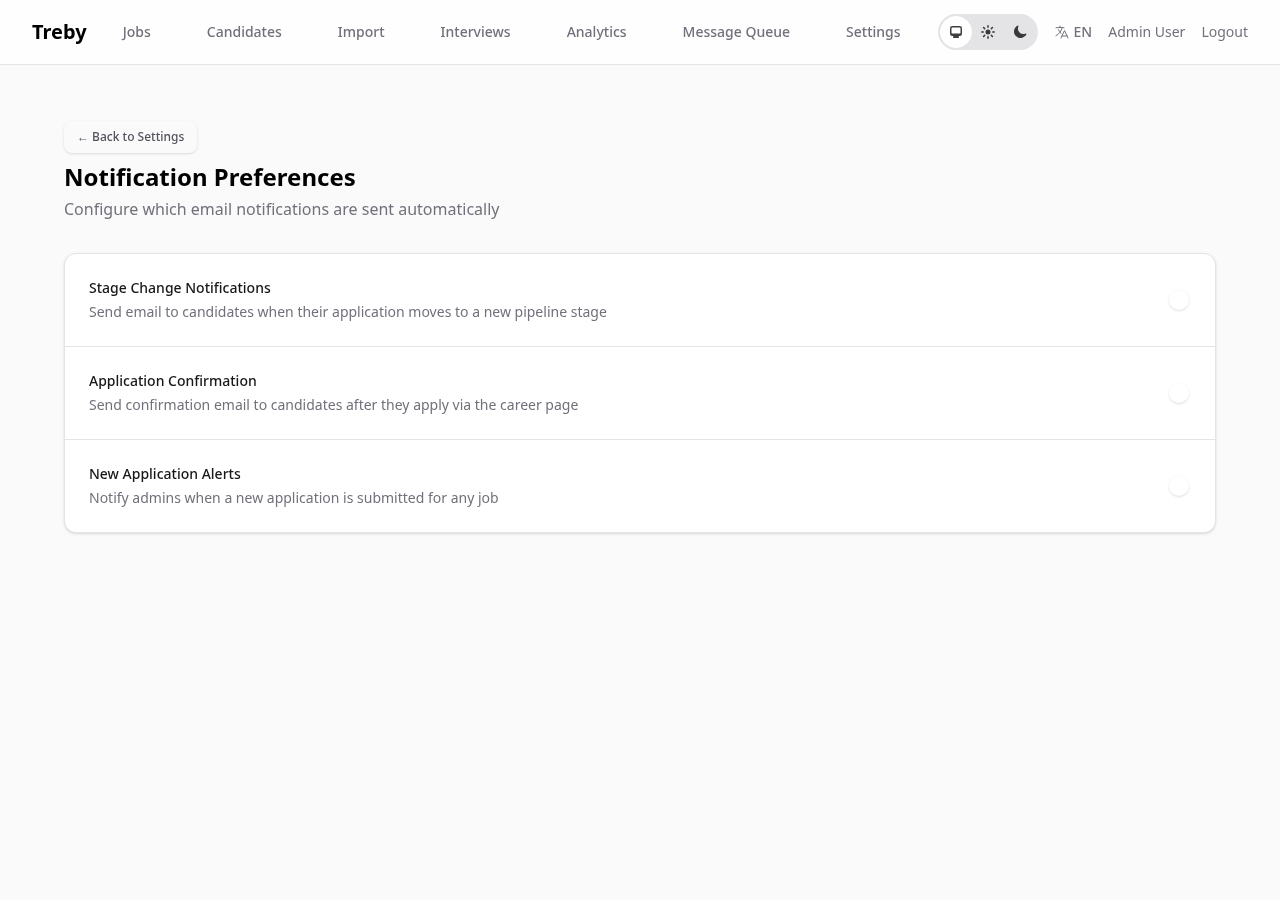
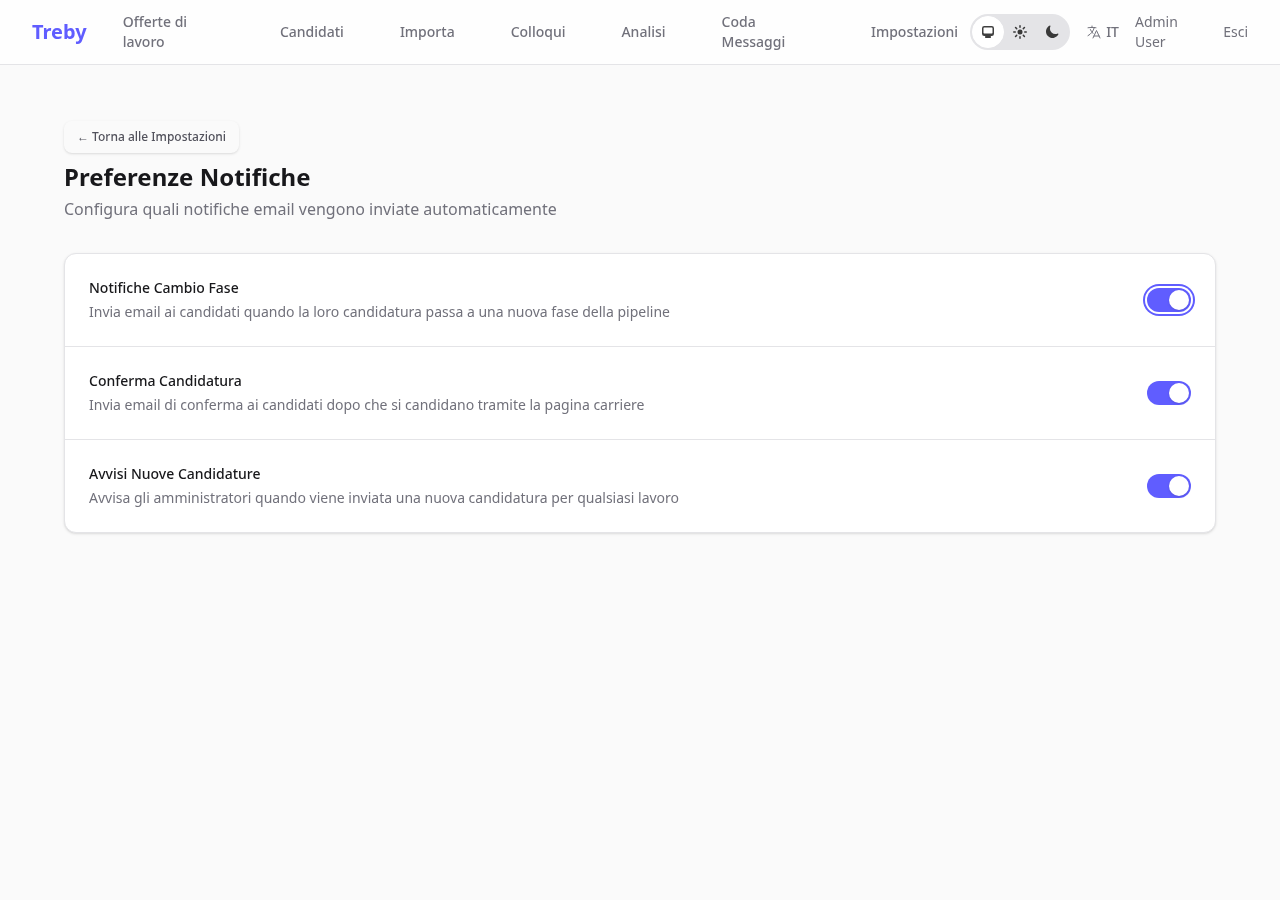
fix: notification toggles state, primary color, and mixed translations

diff --git a/assets/css/app.css b/assets/css/app.css
@@ -10,6 +10,13 @@
    The heroicons installation itself is managed by your mix.exs */
 @plugin "../vendor/heroicons";
 
+/* Brand color relied upon by `*-primary` utilities across templates.
+   Values match the previously shipped build; keep in sync if re-themed. */
+@theme {
+  --color-primary: oklch(58% 0.233 277.117);
+  --color-primary-content: oklch(96% 0.018 272.314);
+}
+
 /* Add variants based on LiveView classes */
 @custom-variant phx-click-loading (.phx-click-loading&, .phx-click-loading &);
 @custom-variant phx-submit-loading (.phx-submit-loading&, .phx-submit-loading &);

diff --git a/openspec/changes/archive/2026-09-08-notification-toggles-fix/design.md b/openspec/changes/archive/2026-09-08-notification-toggles-fix/design.md
@@ -1,0 +1,46 @@
+## Context
+
+`*-primary` color utilities (`bg-primary`, `text-primary`, `focus:ring-primary`,
+…) are used across ~15 templates, but no source file defines the `primary`
+color (no Tailwind v4 `@theme` block, no daisyUI). It exists only in stale
+compiled CSS (`--color-primary: oklch(58% .233 277.117)`), so the next asset
+rebuild silently drops all primary styling app-wide. The notification
+toggles are the first visible victim: their ON state (`bg-primary`) cannot
+render. The toggle handler itself (`toggle_preference` → tenant settings)
+is sound and covered by pattern precedent; it needs an end-to-end proof.
+
+## Goals / Non-Goals
+
+**Goals:**
+- `primary` color defined in CSS sources so all current usages build.
+- Admin toggles proven working end-to-end (visible flip + persisted).
+- Rebuilt assets verified (no styling regressions).
+
+**Non-Goals:**
+- Migrating `*-primary` usages to concrete tokens (orange/zinc) — separate
+  cleanup; this change is behavior-preserving by design.
+- Changing toggle behavior, copy, or the preference keys.
+
+## Decisions
+
+- **D1: Restore the exact stale value via `@theme`.** Add
+  `@theme { --color-primary: oklch(58% .233 277.117); ... }` (plus
+  `-content` companion already in the stale build) to `assets/css/app.css`.
+  Alternative (migrate everything to orange-600) rejected: it would recolor
+  links/rings/buttons across the app — a visual redesign disguised as a fix.
+- **D2: Prove with two layers.** A LiveView test asserts toggle flips state
+  and persists to tenant settings (fast, committed). A Playwright script
+  drives the real page in Chromium: login → notifications → click toggle →
+  assert track class flips → reload → assert persisted (user explicitly asked
+  for Playwright verification; the script lives in `/tmp`, not the repo).
+- **D3: Rebuild + screenshot diff.** Run the asset build and re-capture an
+  affected page; the only intended visual delta is a visible toggle ON
+  state.
+
+## Risks / Trade-offs
+
+- [Risk] Real browsers may already cache stale CSS → Mitigation: Playwright
+  uses a fresh profile; fingerprinted asset names change on rebuild anyway.
+- [Risk] Other pages depended on the *absence* of primary styles →
+  Mitigation: restoring the previously-shipped value returns to the
+  long-standing look; screenshot spot-check confirms.

diff --git a/openspec/changes/archive/2026-09-08-notification-toggles-fix/proposal.md b/openspec/changes/archive/2026-09-08-notification-toggles-fix/proposal.md
@@ -1,0 +1,36 @@
+## Why
+
+Settings → Notifications shows three preference toggles, but users report
+nothing looks changeable there. Investigation found the toggle ON-state
+relies on a `primary` color that no source file defines (it exists only in
+stale compiled CSS), so switch state is likely invisible or will vanish on
+the next asset rebuild. The specified behavior (visible, working toggles)
+needs restoring and end-to-end proof.
+
+## What Changes
+
+- Define the `primary` color in CSS sources (Tailwind v4 `@theme`) using the
+  value currently relied upon, or migrate toggle/state styling to existing
+  design tokens if the audit prefers them.
+- Verify each of the three admin toggles flips state visibly and persists
+  to the tenant settings (LiveView test + Playwright check on the real page).
+- Rebuild assets and confirm no other `*-primary` styling regresses.
+- No behavior or copy changes; no migrations.
+
+## Capabilities
+
+### New Capabilities
+- None.
+
+### Modified Capabilities
+- `email-notifications`: the "Toggle notification type" scenario must hold
+  visibly (switches reflect and persist state) — bugfix restoring specified
+  behavior, no requirement text change expected unless the audit finds more.
+
+## Impact
+
+- `assets/css/app.css` (theme definition), possibly the notifications
+  LiveView classes if migrated to tokens.
+- Rebuilt CSS/JS in `priv/static` (build artifact, not committed... verify).
+- Tests: new LiveView test for admin toggles; Playwright verification script
+  run (not committed unless repo convention says otherwise).

diff --git a/openspec/changes/archive/2026-09-08-notification-toggles-fix/tasks.md b/openspec/changes/archive/2026-09-08-notification-toggles-fix/tasks.md
@@ -1,0 +1,14 @@
+## 1. Restore primary color
+
+- [x] 1.1 Add Tailwind v4 `@theme` block with `--color-primary` (+ `-content` companion) to `assets/css/app.css`, using the previously-shipped values
+- [x] 1.2 Rebuild assets and confirm `bg-primary`/`text-primary` utilities are generated from sources
+
+## 2. Prove the toggles
+
+- [x] 2.1 Add LiveView test: admin flips each of the 3 toggles, state flips in DOM and persists to tenant settings
+- [x] 2.2 Playwright check on the real page (Chromium, fresh profile): login → notifications → click toggle → assert track class flips → reload → assert persisted
+
+## 3. Verify
+
+- [x] 3.1 Re-capture notifications screenshot, confirm visible ON state and no other visual regressions
+- [x] 3.2 `mix precommit` clean, full suite green

diff --git a/openspec/specs/email-notifications/spec.md b/openspec/specs/email-notifications/spec.md
@@ -70,6 +70,11 @@ The system SHALL allow tenant admins to configure which notification types are e
 - **THEN** the settings are persisted in the tenant's settings JSON
 - **AND** future notifications respect the updated preferences
 
+#### Scenario: Toggle switch shows state
+- **WHEN** an admin looks at Settings > Notifications
+- **THEN** each enabled preference shows its switch in the ON position with the accent background, and each disabled one in the OFF position
+- **AND** clicking a switch flips its position immediately and persists the new value
+
 ### Requirement: Email activity logging
 The system SHALL log all notification emails in the activity audit trail.
 

diff --git a/openspec/changes/archive/2026-09-08-notification-toggles-fix/specs/email-notifications/spec.md b/openspec/changes/archive/2026-09-08-notification-toggles-fix/specs/email-notifications/spec.md
@@ -1,0 +1,14 @@
+# email-notifications (delta)
+
+## Modified Requirements
+
+### Requirement: Notification preferences
+Toggle switches must visibly reflect their state so admins can tell what is
+enabled.
+
+#### Scenario: Toggle switch shows state
+- **WHEN** an admin looks at Settings > Notifications
+- **THEN** each enabled preference shows its switch in the ON position with
+  the accent background, and each disabled one in the OFF position
+- **AND** clicking a switch flips its position immediately and persists the
+  new value
